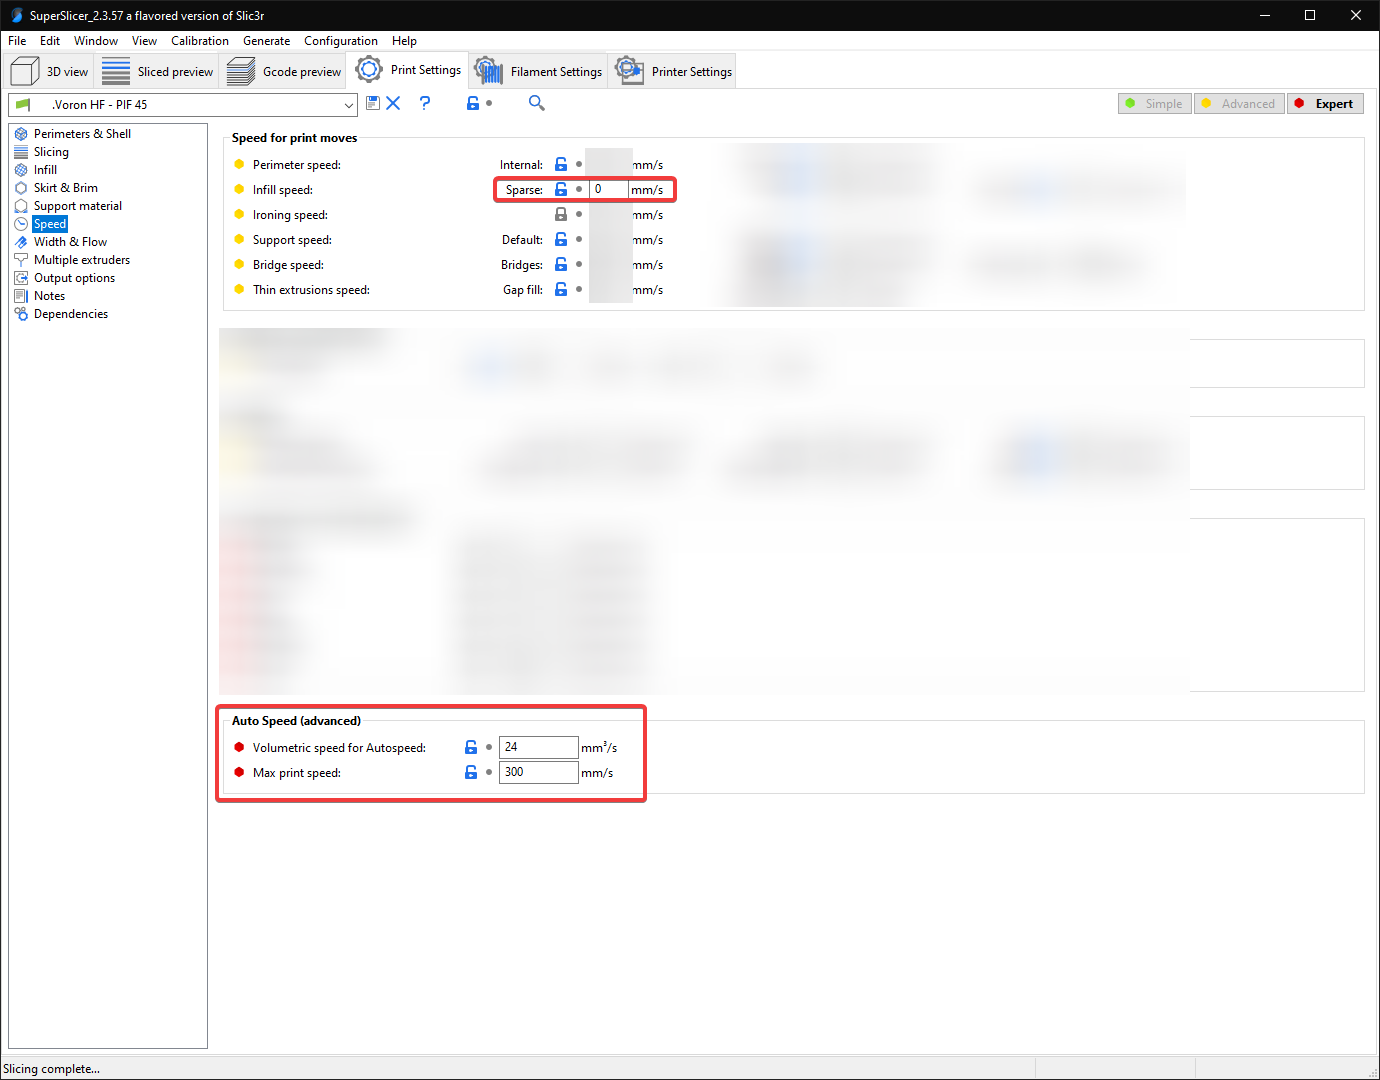
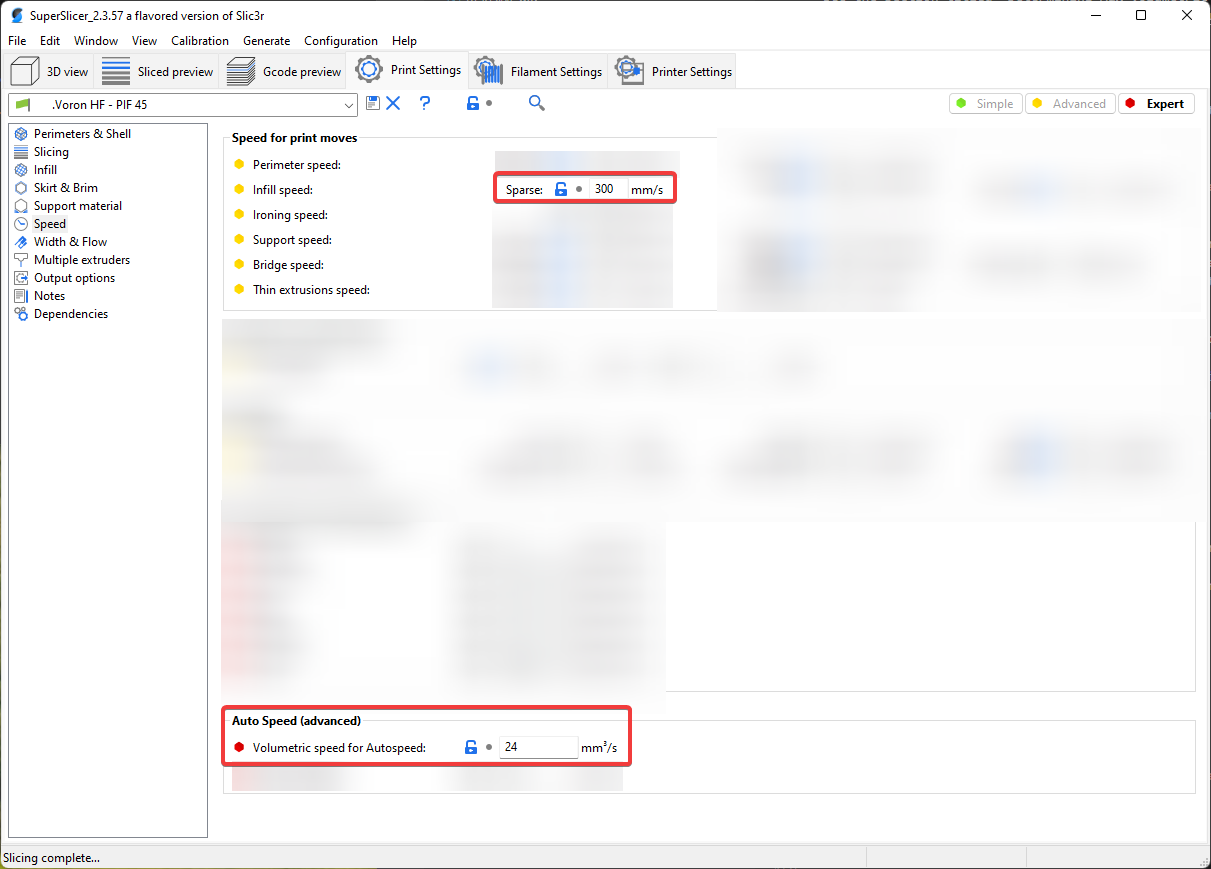
update

diff --git a/README.md b/README.md
@@ -44,6 +44,15 @@ Rather than having to re-import the profiles when updates are made, please check
 
 Use **ctrl + f** in SuperSlicer to find these settings by their internal names below.
 
+- **2022-02-10:** 
+    - Change ***infill_speed*** to **300** and set **max_print_speed** back to default.
+        - ***infill_speed*** was previously **0**. 
+            - This was not always reaching maximum volumetric speed, partly due to a misunderstanding on my part of [how auto-speed works](https://github.com/supermerill/SuperSlicer/issues/1629#issuecomment-1013791149). 
+            - Setting it to a maximum speed value instead of 0 better accomplishes my intended goal (maxing out the hotend's capability for infill). See the [Volumetric Speed / Auto Speed](#volumetric-speed--auto-speed) section for an updated (corrected) explanation.
+        - **max_print_speed** was previously 300.
+    - Change ***support_material_speed*** to **150**.
+        - Was previously **240**. This could cause supports to not adhere properly or get knocked over (though supports are disabled by default in this profile).
+    - Reverted the ***feature_gcode*** change from **2021-11-19**. It simply wasn't doing much.
 - **2022-01-02:** Change ***first_layer_height*** to **0.24**.
     - SuperSlicer currently has a weird bug causing slicing to give up part way through. Setting first layer height to something that's not 0.25 fixes it for me. ¯\\\_(ツ)_/¯
 - **2021-12-29:** Change ***resolution*** to **0.0125** (new SS default) and update formatting of ***feature_gcode***
@@ -51,8 +60,8 @@ Use **ctrl + f** in SuperSlicer to find these settings by their internal names b
     - The feature_gcode change is purely stylistic. 
 - **2021-12-01:** Enable ***ensure_vertical_shell_thickess*** and revert ***solid_over_perimeters*** to default (2)
     - This can prevent occasional perimeter gapping on steep angles.
-- **2021-11-19:** Set accel_to_decel values to half of accel values in ***feature_gcode***.
-    - Previously accel and accel_to_decel were the same value.
+- ~~**2021-11-19:** Set accel_to_decel values to half of accel values in ***feature_gcode***.~~
+    - ~~Previously accel and accel_to_decel were the same value.~~
 - **2021-11-19:** Set new ***bridge_overlap_min*** setting to **50%**
     - Fixes 50% bridge density in new SuperSlicer version (2.3.57.6).
 - **2021-11-11:** Change ***fill_pattern*** to **grid**.
@@ -105,9 +114,13 @@ Select the **\.ini** file.
 # Volumetric Speed / Auto Speed
 **(!) It is very important that you update the volumetric speed setting, otherwise you may have extruder skipping and/or grinding.**
 
-These bottom two settings in this screenshot serve as universal "speed limits". No matter how much you push speeds, layer heights, or line widths, it will never allow you to exceed these thresholds.
+The volumetric speed setting at the bottom of this screenshot serves as a universal "flow limit". 
 
-This is important because I keep my infill speed set to 0. This means it will print infill **as fast as the hotend will allow**, or up to the 300mm/sec, whichever comes first.
+No matter how much you push speeds, layer heights, or line widths, **it will never allow you to outrun your hotend.**
+
+This is important because I keep my infill speed set to **300**. This is the absolute max I want my infill to print, but in reality it will usually print more slowly due to this limit. This essentially prints infill **as fast as the hotend will allow, up to 300mm/s.**.
+
+Even when not pushing for speeds, I **highly advise putting an appropriate value for your hotend** in the volumetric speed box. This prevents you from accidentlly outrunning your hotend when playing with layer heights, line widths, speeds, etc. See the next section to determine this value.
 
 ![](Images/VolumetricSpeed.png)  
 
